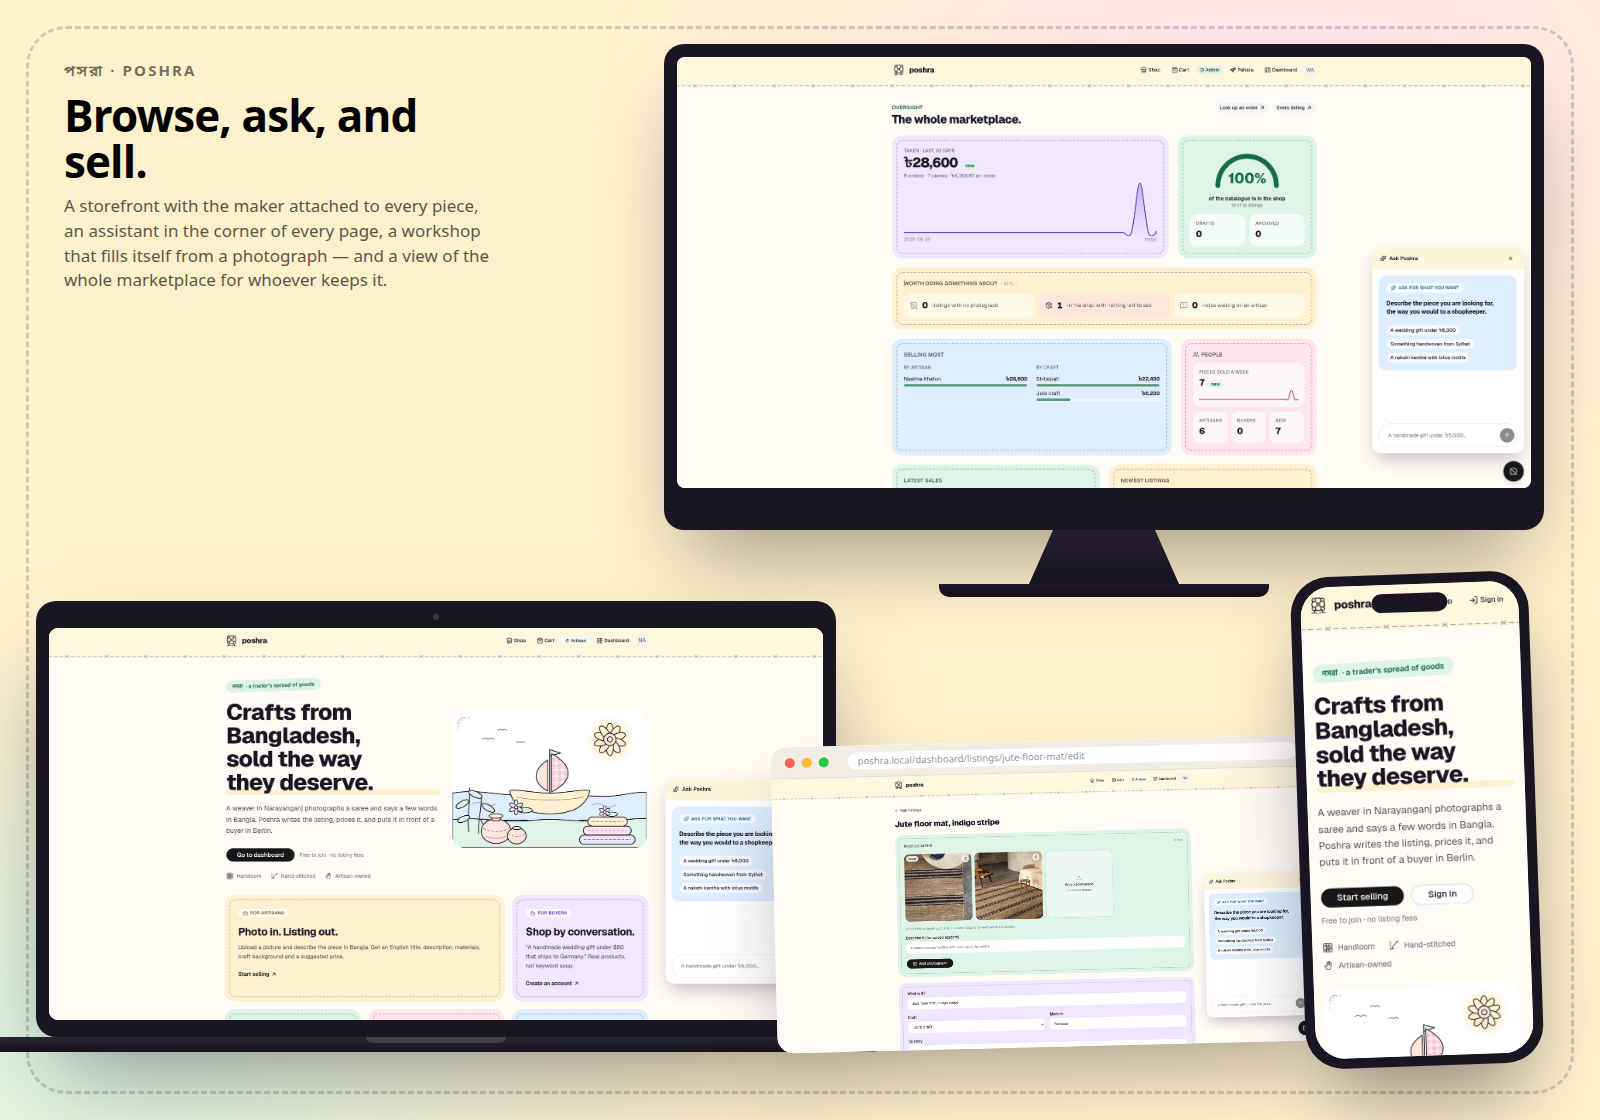
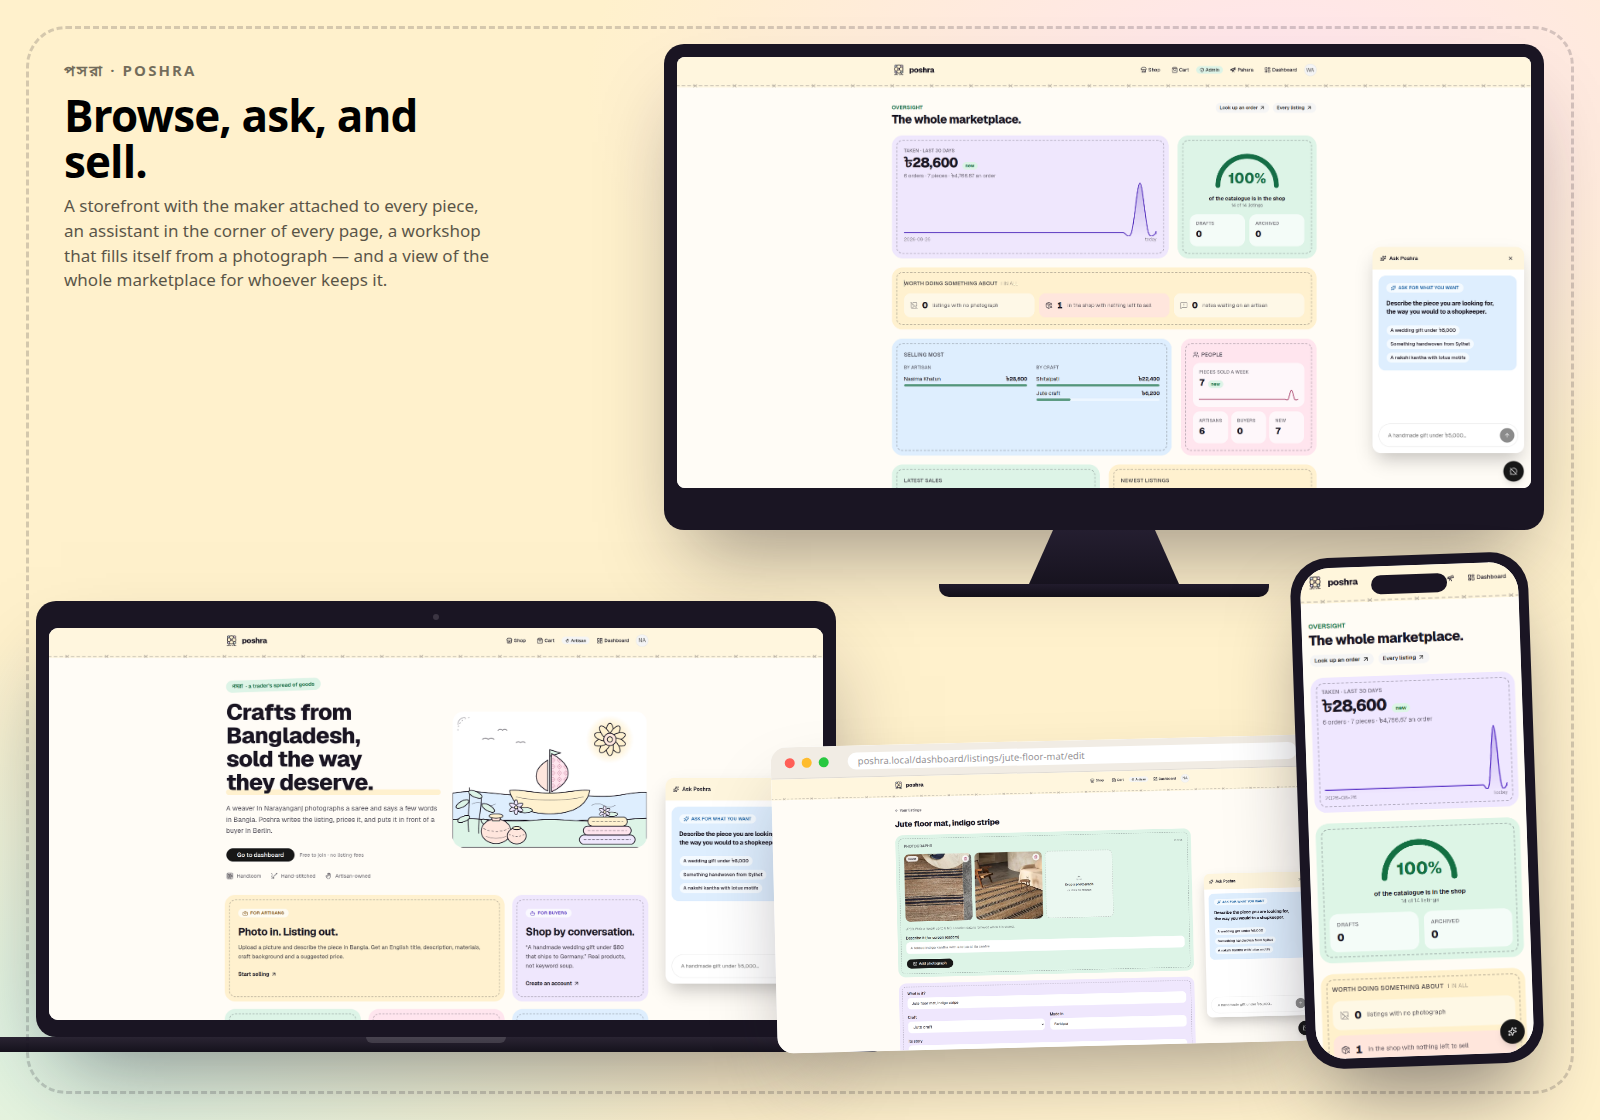
docs: the oversight board in a hand, beside the same board with room
The phone carries the admin view rather than the storefront. One page, two
shapes: the monitor shows what it does with room, and the phone shows that the
curve, the dial and the work waiting all survive being stacked into a column.

The storefront on a phone is still in the hero, so nothing is lost by the
swap — and a responsive admin screen is worth more here, because it is the
one somebody actually reaches for at an odd hour.

Changed region(s): [[0.8125, 0.4688, 0.9688, 0.9688]]

diff --git a/docs/assets/cover-product.html b/docs/assets/cover-product.html
@@ -58,7 +58,10 @@
     <img class="shot" src="cap-listing.png" alt="">
   </div>
 
+  <!-- The same oversight board in a hand: one page, two shapes. The monitor
+       shows what it does with room; the phone shows that it still works
+       without any. -->
   <div class="phone">
-    <div class="screen"><div class="island"></div><img src="cap-mobile.png" alt=""></div>
+    <div class="screen"><div class="island"></div><img src="cap-oversight-mobile.png" alt=""></div>
   </div>
 </body></html>

diff --git a/README.md b/README.md
@@ -22,7 +22,7 @@
 ---
 
 <p align="center">
-  <img src="docs/assets/cover-product.png" alt="Poshra on four screens: the oversight board for the whole marketplace on a monitor, the storefront on a laptop, the listing editor in a browser window, and the mobile storefront on a phone" width="960">
+  <img src="docs/assets/cover-product.png" alt="Poshra on four screens: the oversight board for the whole marketplace on a monitor and again on a phone, the storefront on a laptop, and the listing editor in a browser window" width="960">
 </p>
 
 ---
